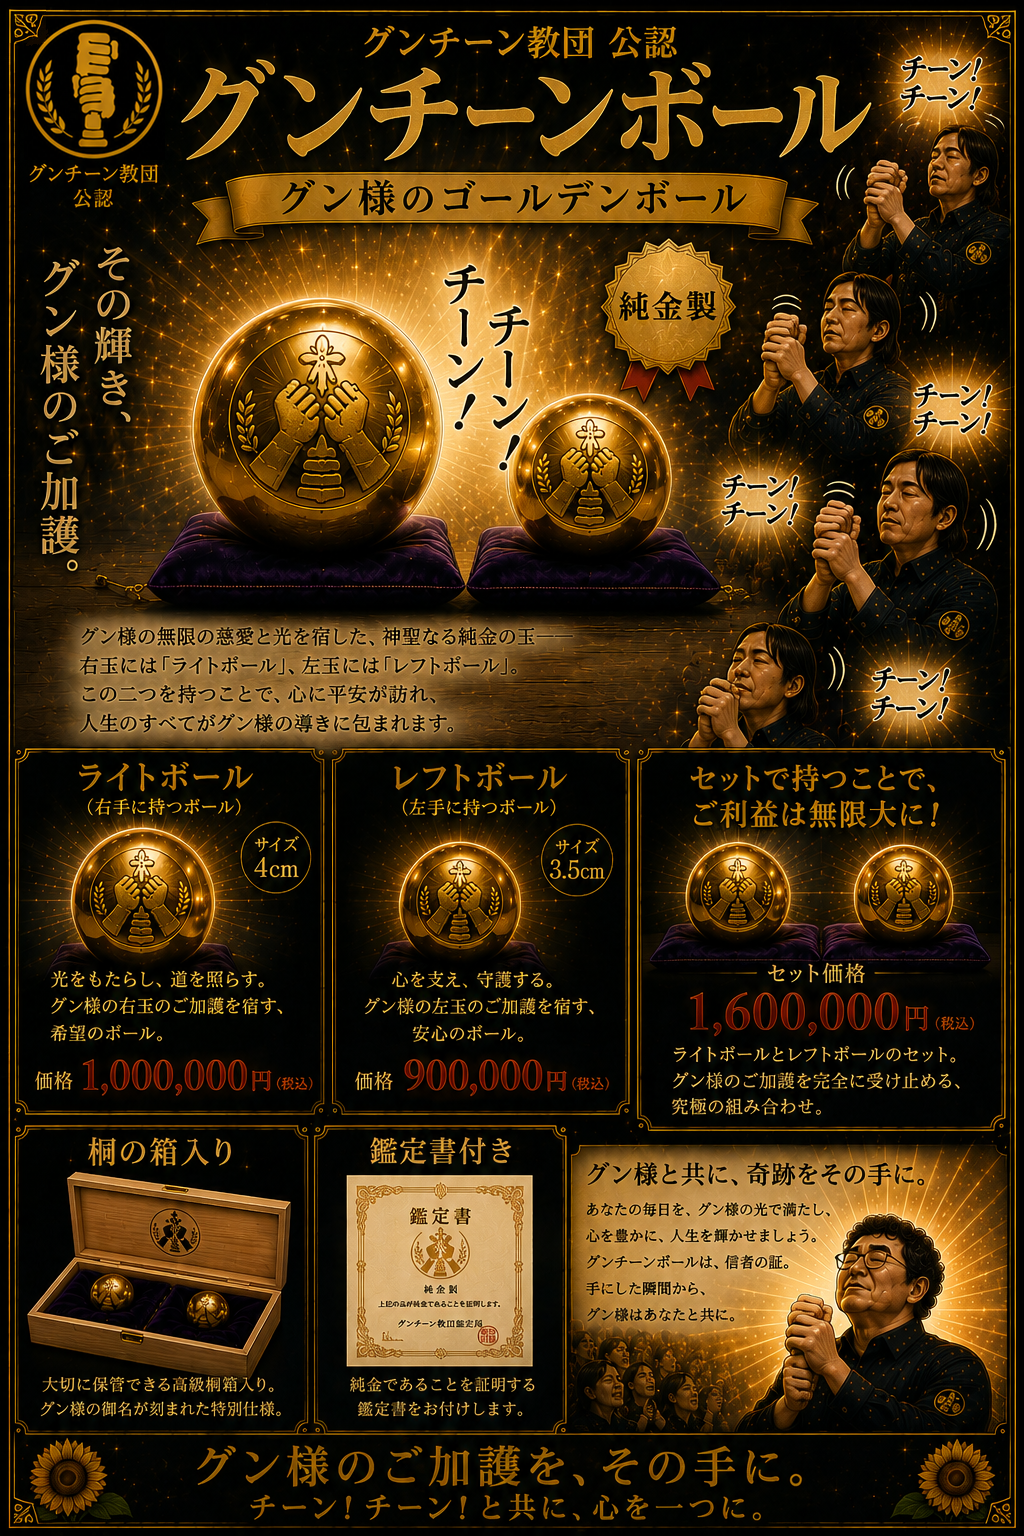
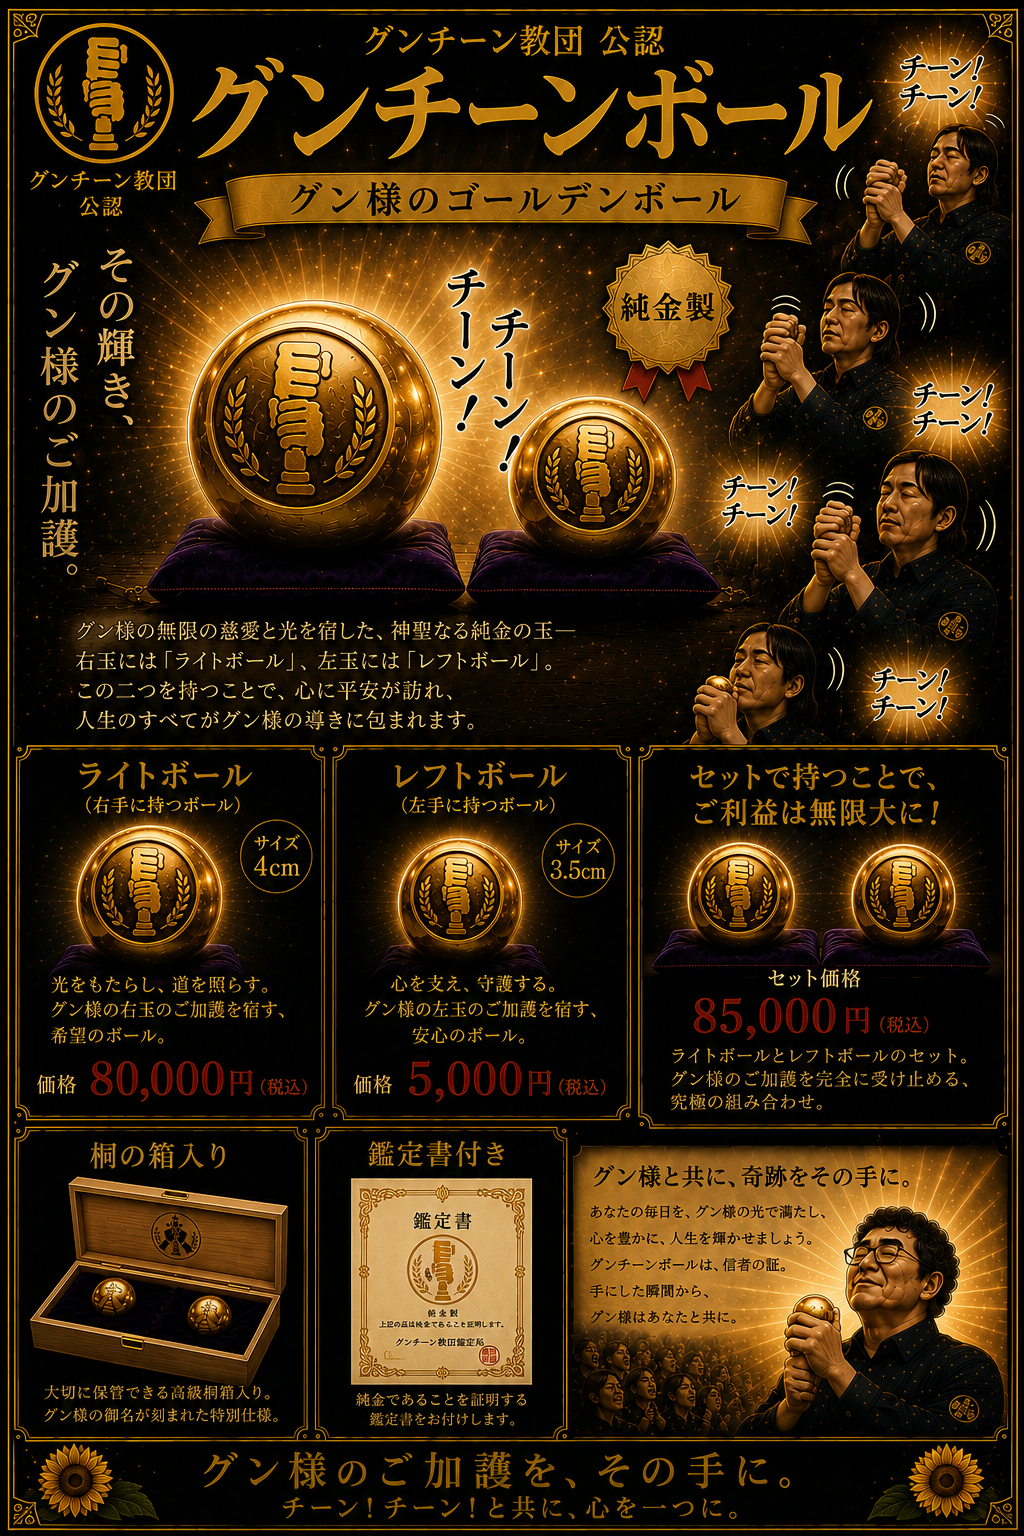
お知らせを追加

diff --git a/app/join/page.tsx b/app/join/page.tsx
@@ -5,8 +5,20 @@ import { useState } from "react";
 import { ContentImage, PageShell, renderMultiline } from "@/components/SiteChrome";
 import siteContent from "@/content/siteContent.json";
 
+function createMemberId() {
+  return `GC-${Math.random().toString(36).slice(2, 8).toUpperCase()}`;
+}
+
 export default function JoinPage() {
   const [joined, setJoined] = useState(false);
+  const [memberId, setMemberId] = useState<string | null>(null);
+
+  const handleJoin = () => {
+    setJoined(true);
+    setMemberId(createMemberId());
+  };
+
+  const certificate = siteContent.join.certificate;
 
   return (
     <PageShell>
@@ -21,13 +33,55 @@ export default function JoinPage() {
         <p className="text-sm font-black tracking-[0.42em] text-gold">{renderMultiline(siteContent.join.eyebrow)}</p>
         <h1 className="mt-5 text-4xl font-black text-white md:text-6xl">{renderMultiline(siteContent.join.title)}</h1>
         <p className="mx-auto mt-6 max-w-2xl leading-8 text-white/70">{renderMultiline(siteContent.join.body)}</p>
-        <button type="button" onClick={() => setJoined(true)} className="glow-button mt-10 rounded-full bg-gold px-10 py-5 text-sm font-black tracking-[0.28em] text-black">
-          {renderMultiline(siteContent.join.buttonLabel)}
-        </button>
+        {!joined && (
+          <button type="button" onClick={handleJoin} className="glow-button mt-10 rounded-full bg-gold px-10 py-5 text-sm font-black tracking-[0.28em] text-black">
+            {renderMultiline(siteContent.join.buttonLabel)}
+          </button>
+        )}
         {joined && (
-          <motion.div className="mx-auto mt-8 max-w-2xl whitespace-pre-line rounded-3xl border border-gold/35 bg-black/45 p-6 text-xl font-black text-gold shadow-glow" initial={{ opacity: 0, scale: 0.82, y: 18 }} animate={{ opacity: 1, scale: 1, y: 0 }}>
-            {siteContent.join.successMessage}
-          </motion.div>
+          <>
+            <motion.div
+              className="mx-auto mt-8 max-w-2xl whitespace-pre-line rounded-3xl border border-gold/35 bg-black/45 p-6 text-xl font-black text-gold shadow-glow"
+              initial={{ opacity: 0, scale: 0.82, y: 18 }}
+              animate={{ opacity: 1, scale: 1, y: 0 }}
+            >
+              {siteContent.join.successMessage}
+            </motion.div>
+
+            <motion.div
+              className="mx-auto mt-8 w-full max-w-md overflow-hidden rounded-[32px] border-2 border-gold/50 bg-[linear-gradient(180deg,rgba(215,179,90,0.22),rgba(5,5,5,0.92))] p-8 shadow-glow"
+              initial={{ opacity: 0, scale: 0.9, y: 24 }}
+              animate={{ opacity: 1, scale: 1, y: 0 }}
+              transition={{ delay: 0.2, duration: 0.6 }}
+            >
+              {certificate.image ? (
+                <ContentImage
+                  image={certificate.image}
+                  imageAlt={certificate.imageAlt}
+                  fallback={null}
+                  className="aspect-[3/4] w-full overflow-hidden rounded-[24px] border border-gold/30 bg-black/40"
+                  imageClassName="h-full w-full object-contain"
+                />
+              ) : (
+                <>
+                  <div className="mx-auto mb-6 grid size-20 place-items-center rounded-full border border-gold/50 bg-black/50 shadow-glow">
+                    <ContentImage
+                      image={siteContent.brand.emblemImage}
+                      imageAlt="グンチーン教団エンブレム"
+                      fallback={renderMultiline(siteContent.brand.emblemText)}
+                      className="grid size-14 place-items-center text-3xl font-black text-gold"
+                      imageClassName="h-full w-full object-contain"
+                    />
+                  </div>
+                  <p className="text-xs font-black tracking-[0.38em] text-gold/80">{renderMultiline(certificate.eyebrow)}</p>
+                  <h2 className="mt-3 text-3xl font-black text-white">{renderMultiline(certificate.title)}</h2>
+                  <p className="mt-5 whitespace-pre-line text-sm leading-8 text-white/72">{renderMultiline(certificate.body)}</p>
+                  {memberId && <p className="mt-6 text-xs font-black tracking-[0.28em] text-gold">信者番号 {memberId}</p>}
+                  <p className="mt-6 border-t border-gold/25 pt-5 text-sm font-black tracking-[0.22em] text-gold">{renderMultiline(certificate.footer)}</p>
+                </>
+              )}
+            </motion.div>
+          </>
         )}
       </motion.section>
     </PageShell>

diff --git a/app/scripture/page.tsx b/app/scripture/page.tsx
@@ -1,0 +1,41 @@
+"use client";
+
+import { motion } from "framer-motion";
+import { PageShell, renderMultiline, SectionTitle } from "@/components/SiteChrome";
+import siteContent from "@/content/siteContent.json";
+
+export default function ScripturePage() {
+  const { scripture } = siteContent;
+
+  return (
+    <PageShell>
+      <SectionTitle eyebrow={scripture.eyebrow} title={scripture.title} />
+      <div className="mx-auto max-w-3xl">
+        {scripture.chapters.map((chapter, index) => (
+          <motion.article
+            key={chapter.title}
+            className="glass-card mb-8 p-6 md:p-8"
+            initial={{ opacity: 0, y: 20 }}
+            animate={{ opacity: 1, y: 0 }}
+            transition={{ delay: index * 0.06, duration: 0.6 }}
+          >
+            <h2 className="mb-5 border-b border-gold/25 pb-4 text-sm font-black tracking-[0.12em] text-gold md:text-base">
+              {renderMultiline(chapter.title)}
+            </h2>
+            <p className="whitespace-pre-line text-xs leading-8 text-white/68 md:text-sm md:leading-8">
+              {renderMultiline(chapter.body)}
+            </p>
+            {"chant" in chapter && chapter.chant && (
+              <p className="mt-5 text-center text-sm font-black text-gold md:text-base">{chapter.chant}</p>
+            )}
+            {"bodyAfter" in chapter && chapter.bodyAfter && (
+              <p className="mt-5 whitespace-pre-line text-xs leading-8 text-white/68 md:text-sm md:leading-8">
+                {renderMultiline(chapter.bodyAfter)}
+              </p>
+            )}
+          </motion.article>
+        ))}
+      </div>
+    </PageShell>
+  );
+}

diff --git a/app/page.tsx b/app/page.tsx
@@ -235,17 +235,17 @@ export default function Home() {
           <p className="mb-4 text-sm font-bold tracking-[0.5em] text-gold/80">{renderMultiline(siteContent.hero.eyebrow)}</p>
           <h1 className="text-5xl font-black leading-tight tracking-[-0.06em] text-white md:text-8xl">{renderMultiline(siteContent.hero.catchcopy)}</h1>
           <p className="mx-auto mt-6 max-w-2xl text-lg leading-9 text-white/76 md:text-2xl">{renderMultiline(siteContent.hero.subcopy)}</p>
-          <div className="mt-10 flex flex-col justify-center gap-4 sm:flex-row">
+          <div className="mt-10 flex flex-col items-center gap-4">
             {siteContent.hero.buttons.map((button) => (
               <a
                 key={button.href}
                 href={button.href}
                 className={
                   button.variant === "primary"
-                    ? "glow-button rounded-full bg-gold px-8 py-4 text-sm font-black tracking-[0.24em] text-black"
+                    ? "glow-button inline-flex w-72 items-center justify-center rounded-full bg-gold px-6 py-4 text-sm font-black tracking-[0.24em] text-black"
                     : button.variant === "secondary"
-                      ? "rounded-full border border-gold/50 bg-white/10 px-8 py-4 text-sm font-black tracking-[0.24em] text-white backdrop-blur transition hover:bg-white/20"
-                      : "rounded-full border border-white/15 bg-black/40 px-8 py-4 text-sm font-black tracking-[0.24em] text-white/85 backdrop-blur transition hover:text-gold"
+                      ? "inline-flex w-72 items-center justify-center rounded-full border border-gold/50 bg-white/10 px-6 py-4 text-sm font-black tracking-[0.24em] text-white backdrop-blur transition hover:bg-white/20"
+                      : "inline-flex w-72 items-center justify-center rounded-full border border-white/15 bg-black/40 px-6 py-4 text-sm font-black tracking-[0.24em] text-white/85 backdrop-blur transition hover:text-gold"
                 }
               >
                 {renderMultiline(button.label)}

diff --git a/app/doctrine/page.tsx b/app/doctrine/page.tsx
@@ -39,7 +39,7 @@ export default function DoctrinePage() {
         </motion.div>
 
         {adventImage && (
-          <div className="doctrine-advent mx-auto mb-8 w-full max-w-2xl">
+          <div className="doctrine-advent mx-auto mb-8 w-full max-w-4xl">
             {!prefersReducedMotion && (
               <>
                 <motion.div
@@ -78,8 +78,8 @@ export default function DoctrinePage() {
                 image={adventImage}
                 imageAlt={siteContent.mainDoctrine.adventImageAlt}
                 fallback={null}
-                className="aspect-[4/3] w-full overflow-hidden rounded-[30px] border border-gold/30 bg-black/30 p-3 shadow-[0_0_60px_rgba(215,179,90,0.35)]"
-                imageClassName="h-full w-full object-contain"
+                className="aspect-square w-full overflow-hidden rounded-[30px] border border-gold/30 bg-black/30 shadow-[0_0_60px_rgba(215,179,90,0.35)]"
+                imageClassName="h-full w-full object-cover"
               />
             </motion.div>
           </div>

diff --git a/SITEMAP.md b/SITEMAP.md
@@ -27,6 +27,7 @@ gunchin-cult/
 │   ├── globals.css           # グローバルCSS / Tailwind
 │   ├── page.tsx              # TOP（/）
 │   ├── doctrine/page.tsx     # 教義（/doctrine）
+│   ├── scripture/page.tsx    # 経典（/scripture）
 │   ├── about/page.tsx        # 教団について（/about）
 │   ├── sayings/page.tsx      # お言葉（/sayings）
 │   ├── join/page.tsx         # 入信（/join）
@@ -64,6 +65,7 @@ gunchin-cult/
 |---|---|---|---|---|
 | `/` | TOP | `app/page.tsx` | — | — |
 | `/doctrine` | 教義 | `app/doctrine/page.tsx` | ○ | ○ |
+| `/scripture` | 経典 | `app/scripture/page.tsx` | ○ | ○ |
 | `/about` | 教団について | `app/about/page.tsx` | ○ | ○ |
 | `/sayings` | お言葉 | `app/sayings/page.tsx` | ○ | ○ |
 | `/join` | 入信 | `app/join/page.tsx` | ○ | ○ |
@@ -75,17 +77,19 @@ gunchin-cult/
 ヘッダーメニュー・TOPボタンは `siteContent.json` の `nav.menuItems` / `hero.buttons` から読み込む。
 
 1. 教義 → `/doctrine`
-2. 教団について → `/about`
-3. お言葉 → `/sayings`
-4. 入信 → `/join`
-5. グンチーンショップ → `/shop`
-6. お知らせ → `/news`
+2. 経典 → `/scripture`
+3. 教団について → `/about`
+4. お言葉 → `/sayings`
+5. 入信 → `/join`
+6. グンチーンショップ → `/shop`
+7. お知らせ → `/news`
 
 ### サイトマップ（ツリー）
 
 ```text
 /
-├── /doctrine          教義
+├── /doctrine          教義（降臨イラスト）
+├── /scripture         経典（全6章）
 ├── /about             教団について
 │   ├── グンチーン教団とは
 │   ├── 教団年表
@@ -93,8 +97,8 @@ gunchin-cult/
 │   ├── グンチーン教団舞踏（タップでイラスト一覧・拡大）
 │   └── グン様を祈る正しい作法（タップでイラスト一覧・拡大）
 ├── /sayings           お言葉（イラスト拡大）
-├── /join              入信
-├── /shop              グンチーンショップ（イラスト拡大）
+├── /join              入信（成功メッセージ＋信者証）
+├── /shop              グンチーンショップ（イラスト拡大・カタログ）
 └── /news              お知らせ（イラスト拡大）
 ```
 
@@ -114,7 +118,9 @@ gunchin-cult/
 
 - 初回のみ入口演出。`sessionStorage`（`gunchin-intro-seen`）または `/#top` でスキップ
 - TOPは `SiteNav` + ヒーロー + `SiteFooter` のみ（他セクションは各ページへ分離）
-- ロゴリンク: `/#top`（入口スキップ）
+- ヘッダーのサイト名テキスト: `/#top`（入口スキップ）
+- ヘッダーのエンブレム画像: `/`（入口演出を再再生。`gunchin-intro-seen` を削除）
+- TOPボタンは PC / スマホとも縦並び・固定幅（`w-72`）
 
 ---
 
@@ -129,9 +135,24 @@ gunchin-cult/
 **特記事項**
 
 - `adventImage` がある場合、グン様イラストが上から降臨する演出を表示
+- 降臨イラストは正方形枠（`aspect-square`）に `object-cover` で枠いっぱいに表示
 - 三大教義は `text`（見出し）と `body`（補足文）を表示
 
 **レイアウト:** `PageShell`（共通ナビ・背景・フッター）
+
+---
+
+### `/scripture` — 経典
+
+| セクション | 内容 | JSONキー |
+|---|---|---|
+| ページタイトル | SCRIPTURE / グンチーン経典 | `scripture` |
+| 章一覧 | 第一章〜第六章（タイトル・本文） | `scripture.chapters[]` |
+
+**特記事項**
+
+- 本文は小さめ（`text-xs` / PCは `text-sm`）で表示
+- 第六章は `chant`（「グングン、チーン。」）と `bodyAfter` を追加表示可能
 
 ---
 
@@ -173,6 +194,12 @@ gunchin-cult/
 |---|---|---|
 | 入信案内 | タイトル・本文・画像 | `join` |
 | 入信ボタン | クリックで成功メッセージ表示 | `join.buttonLabel` / `join.successMessage` |
+| 信者証 | 成功メッセージの下に表示 | `join.certificate` |
+
+**特記事項**
+
+- 入信成功後、ランダムな信者番号付きの信者証カードを表示
+- `certificate.image` を設定すると、カードUIの代わりに画像を表示
 
 ---
 
@@ -185,7 +212,9 @@ gunchin-cult/
 
 **特記事項**
 
-- 商品イラストをタップすると拡大表示
+- 価格は商品名の直下に表示
+- サムネイルは上基準（`object-top`）。タップで拡大表示
+- `detail` の下に「カタログを見る」ボタン（同じ画像をライトボックス表示）
 
 ---
 
@@ -215,6 +244,13 @@ gunchin-cult/
 | `ContentImage` | 画像表示（未設定時は fallback） | 各ページ |
 | `renderMultiline` | `\n` 改行対応テキスト表示 | 全ページ |
 
+**ヘッダーのリンク分離**
+
+| 要素 | 遷移先 | 動作 |
+|---|---|---|
+| エンブレム画像 | `/` | 入口演出を再再生 |
+| サイト名テキスト | `/#top` | TOPヒーローへ（入口スキップ） |
+
 ---
 
 ## コンテンツ定義（`content/siteContent.json`）
@@ -223,16 +259,17 @@ gunchin-cult/
 |---|---|
 | `brand` | ロゴ・エンブレム・サイト名 |
 | `nav.menuItems` | ヘッダーメニュー |
-| `hero` | TOPファーストビュー |
+| `hero` | TOPファーストビュー・遷移ボタン |
 | `mainDoctrine` | 教義ページ・メイン教義・降臨イラスト（`adventImage`） |
 | `doctrines` | 教義ページ・三大教義（`text` / `body`） |
+| `scripture` | 経典ページ（`chapters[]` / `chant` / `bodyAfter`） |
 | `about` | 教団について・紹介 |
 | `timeline` | 教団について・年表 |
 | `ritualCards` | 教団について・教団歌（`lyrics`）/ 演舞・作法（`gallery`） |
 | `sayings` | お言葉ページ |
 | `goods` | ショップページ |
 | `news` | お知らせページ |
-| `join` | 入信ページ |
+| `join` | 入信ページ・成功メッセージ・信者証（`certificate`） |
 | `footer` | フッター（全ページ共通） |
 
 詳細な編集方法は `content/README.md` を参照。
@@ -245,6 +282,7 @@ gunchin-cult/
 |---|---|
 | `public/images/` | サイト画像（JSONでは `/images/ファイル名` で指定） |
 | `public/images/gunchin_emblem.png` | 教団エンブレム（デフォルト） |
+| `public/images/gunsama_advent.png` | 教義ページ・降臨イラスト |
 
 ---
 